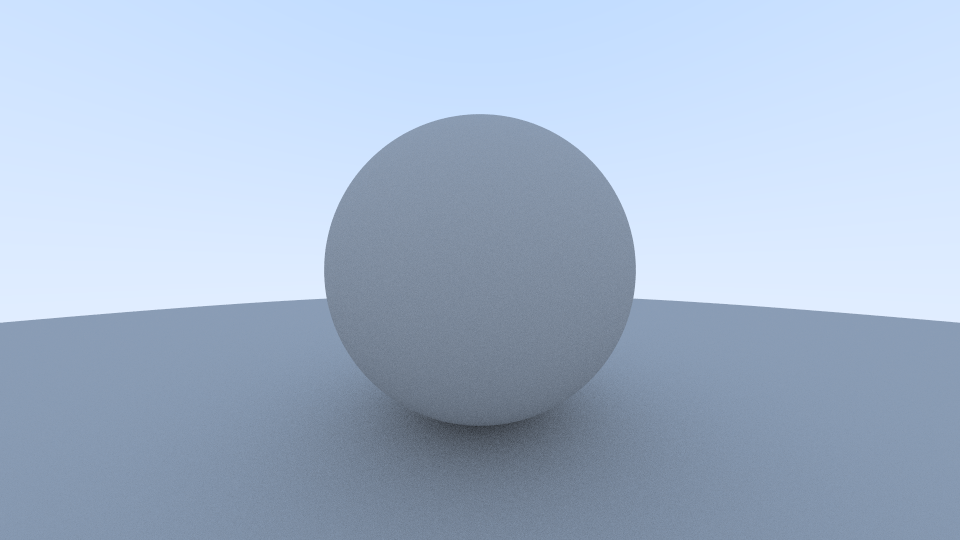
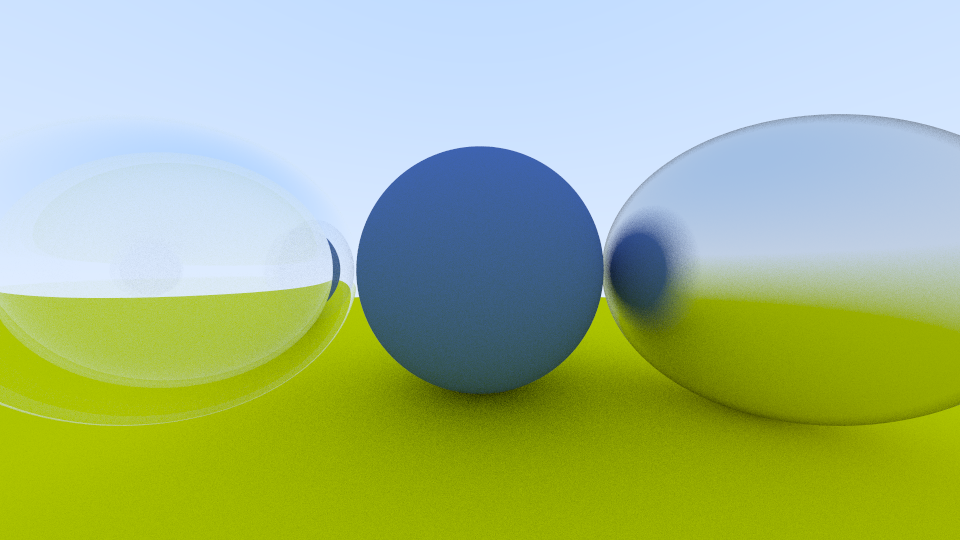
Chapter 11 done will time .exe to .ppm next time

diff --git a/src/public/material.h b/src/public/material.h
@@ -1,0 +1,95 @@
+#ifndef MATERIAL_H
+#define MATERIAL_H
+
+#include "hittable.h"
+
+class Material
+{
+public:
+  virtual ~Material() = default;
+
+  virtual bool scatter(const Ray& rIn, const HitRecord& rec, Color& attenuation, Ray& scattered) const
+  { return false; }
+};
+
+class Lambertian : public Material
+{
+private:
+  Color m_albedo {};
+
+public:
+  Lambertian(const Color& albedo)
+    : m_albedo {albedo}
+  {}
+
+  bool scatter(const Ray& rIn, const HitRecord& rec, Color& attenuation, Ray& scattered) const override
+  {
+    auto scatterDirection {rec.m_normal + randomUnitVector()};
+    if (scatterDirection.nearZero()) { scatterDirection = rec.m_normal; }
+
+    scattered = Ray {rec.m_p, scatterDirection};
+    attenuation = m_albedo;
+    return true;
+  }
+};
+
+class Metal : public Material
+{
+private:
+  Color m_albedo {};
+  double m_fuzz {};
+
+public:
+  Metal(const Color& albedo, double fuzz)
+    : m_albedo {albedo}, m_fuzz {(fuzz < 1 ? fuzz : 1)}
+  {}
+
+  bool scatter(const Ray& rIn, const HitRecord& rec, Color& attenuation, Ray& scattered) const override
+  {
+    Vec3 reflected {reflect(rIn.direction(), rec.m_normal)};
+    reflected = unitVector(reflected) + (m_fuzz * randomUnitVector());
+    scattered = Ray {rec.m_p, reflected};
+    attenuation = m_albedo;
+    return (dot(scattered.direction(), rec.m_normal) > 0);
+  }
+};
+
+class Dielectric : public Material
+{
+private:
+  double m_refractionIndex {};
+
+private:
+  static double reflectance(double cosine, double refractionIndex)
+  {
+    auto r0 {(1.0 - refractionIndex) / (1.0 + refractionIndex)};
+    r0 = r0 * r0;
+    return r0 + (1 - r0) * std::pow((1.0 - cosine), 5.0);
+  }
+
+public:
+  Dielectric(double refractionIndex)
+    : m_refractionIndex {refractionIndex}
+  {}
+
+  bool scatter(const Ray& rIn, const HitRecord& rec, Color& attenuation, Ray& scattered) const override
+  {
+    attenuation = Color {1.0, 1.0, 1.0};
+    double ri {rec.m_frontFace ? (1.0 / m_refractionIndex) : m_refractionIndex};
+
+    Vec3 unitDirection {unitVector(rIn.direction())};
+    double cosTheta {std::fmin(dot(-unitDirection, rec.m_normal), 1.0)};
+    double sinTheta {std::sqrt(1.0 - cosTheta * cosTheta)};
+
+    bool cannotRefract {(ri * sinTheta) > 1.0};
+    Vec3 direction {};
+    if (cannotRefract || (reflectance(cosTheta, ri) > randomDouble()))
+    { direction = reflect(unitDirection, rec.m_normal); }
+    else { direction = refract(unitDirection, rec.m_normal, ri); }
+
+    scattered = Ray {rec.m_p, direction};
+    return true;
+  }
+};
+
+#endif

diff --git a/src/private/main.cpp b/src/private/main.cpp
@@ -1,19 +1,31 @@
 #pragma warning (disable : 4514)
 #pragma warning (disable : 4820)
 #pragma warning (disable : 5045)
+#pragma warning (disable : 4100)
 
 #include "rtweekend.h"
 
 #include "camera.h"
 #include "hittable.h"
 #include "hittableList.h"
+#include "material.h"
 #include "sphere.h"
 
 int main()
 {
   HittableList world {};
-  world.add(std::make_shared<Sphere>(Point3 {0.0, 0.0, -1.0}, 0.5));
-  world.add(std::make_shared<Sphere>(Point3 {0.0, -100.5, -1.0}, 100));
+
+  auto materialGround {std::make_shared<Lambertian>(Color {0.8, 0.8, 0.0})};
+  auto materialCenter {std::make_shared<Lambertian>(Color {0.1, 0.2, 0.5})};
+  auto materialLeft {std::make_shared<Dielectric>(1.50)};
+  auto materialBubble {std::make_shared<Dielectric>(1.0  / 1.50)};
+  auto materialRight {std::make_shared<Metal>(Color {0.8, 0.8, 0.8}, 0.3)};
+
+  world.add(std::make_shared<Sphere>(Point3 {0.0, -100.5, -1.0}, 100.0, materialGround));
+  world.add(std::make_shared<Sphere>(Point3 {0.0, 0.0, -1.2}, 0.5, materialCenter));
+  world.add(std::make_shared<Sphere>(Point3 {-1.0, 0.0, -1.0}, 0.5, materialLeft));
+  world.add(std::make_shared<Sphere>(Point3 {-1.0, 0.0, -1.0}, 0.4, materialBubble));
+  world.add(std::make_shared<Sphere>(Point3 {1.0, 0.0, -1.0}, 0.5, materialRight));
 
   Camera cam {};
 

diff --git a/src/public/vec3.h b/src/public/vec3.h
@@ -47,6 +47,12 @@ public:
   double lengthSquared() const
   { return ((m_e[0] * m_e[0]) + (m_e[1] * m_e[1]) + (m_e[2] * m_e[2])); }
 
+  bool nearZero() const
+  {
+    auto s {1e-8};
+    return (std::fabs(m_e[0]) < s) && (std::fabs(m_e[1]) < s) && (std::fabs(m_e[2]) < s);
+  }
+
   static Vec3 random()
   { return Vec3 {randomDouble(), randomDouble(), randomDouble()}; }
 
@@ -109,6 +115,17 @@ inline Vec3 randomOnHemisphere(const Vec3& normal)
   Vec3 onUnitSphere {randomUnitVector()};
   if (dot(onUnitSphere, normal) > 0.0) { return onUnitSphere; }
   else { return -onUnitSphere; }
+}
+
+inline Vec3 reflect(const Vec3& v, const Vec3& n)
+{ return v - 2 * dot(v, n) * n; }
+
+inline Vec3 refract(const Vec3& uv, const Vec3& n, double etaIoverEtaT)
+{
+  auto cosTheta {std::fmin(dot(-uv, n), 1.0)};
+  Vec3 rOutPerp {etaIoverEtaT * (uv + cosTheta * n)};
+  Vec3 rOutParallel {-std::sqrt(std::fabs(1.0 - rOutPerp.lengthSquared())) * n};
+  return rOutPerp + rOutParallel;
 }
 
 #endif

diff --git a/src/public/sphere.h b/src/public/sphere.h
@@ -8,10 +8,11 @@ class Sphere : public Hittable
 private:
   Point3 m_center {};
   double m_radius {};
+  std::shared_ptr<Material> m_mat {};
 
 public:
-  Sphere(const Point3& center, double radius)
-    : m_center {center}, m_radius {std::fmax(0.0, radius)}
+  Sphere(const Point3& center, double radius, std::shared_ptr<Material> mat)
+    : m_center {center}, m_radius {std::fmax(0.0, radius)}, m_mat {mat}
   {}
 
   bool hit(const Ray& r, Interval rayT, HitRecord& rec) const override
@@ -37,6 +38,7 @@ public:
     rec.m_p = r.at(rec.m_t);
     Vec3 outwardNormal {(rec.m_p - m_center) / m_radius};
     rec.setFaceNormal(r, outwardNormal);
+    rec.m_mat = m_mat;
 
     return true;
   }

diff --git a/src/public/camera.h b/src/public/camera.h
@@ -2,6 +2,7 @@
 #define CAMERA_H
 
 #include "hittable.h"
+#include "material.h"
 
 class Camera
 {
@@ -68,8 +69,12 @@ private:
     HitRecord rec {};
     if (world.hit(r, Interval {0.001, infinity}, rec))
     {
-      Vec3 direction {rec.m_normal + randomUnitVector()};
-      return 0.5 * rayColor(Ray {rec.m_p, direction}, (depth - 1), world);
+      Ray scattered {};
+      Color attenuation {};
+      if (rec.m_mat->scatter(r, rec, attenuation, scattered))
+      { return attenuation * rayColor(scattered, depth - 1, world); }
+
+      return Color {0.0, 0.0, 0.0};
     }
 
     Vec3 unitDirection {unitVector(r.direction())};

diff --git a/src/public/hittable.h b/src/public/hittable.h
@@ -3,11 +3,14 @@
 
 #include "rtweekend.h"
 
+class Material;
+
 class HitRecord
 {
 public:
   Point3 m_p {};
   Vec3 m_normal {};
+  std::shared_ptr<Material> m_mat {};
   double m_t {};
   bool m_frontFace {};
 
